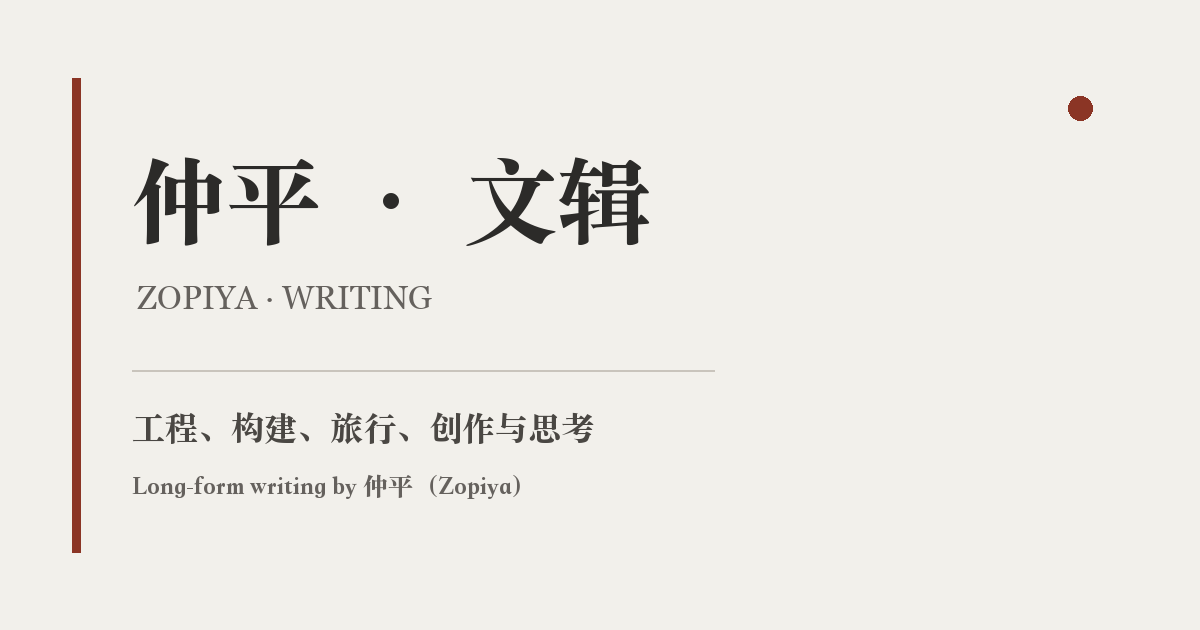
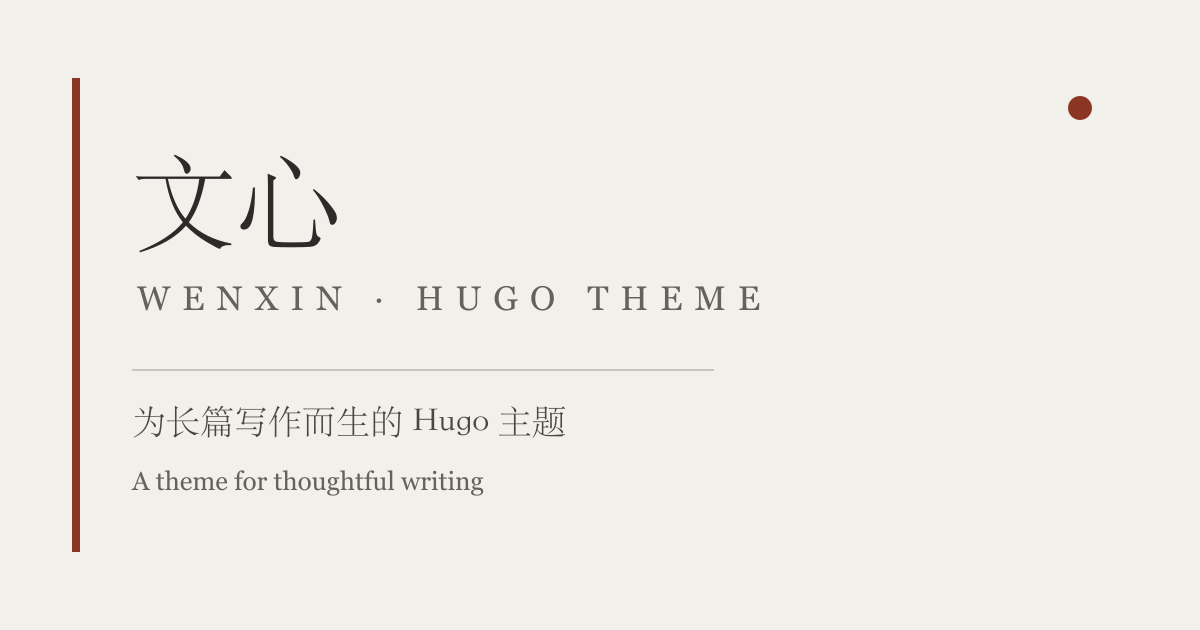
feat: make site identity configurable

diff --git a/layouts/partials/head.html b/layouts/partials/head.html
@@ -86,11 +86,19 @@
 {{ $faviconVersion := .Site.Params.faviconVersion | default "" }}
 {{ $faviconQuery := "" }}
 {{ with $faviconVersion }}{{ $faviconQuery = printf "?v=%s" . }}{{ end }}
-<link rel="icon" type="image/png" href="/favicon-96x96.png{{ $faviconQuery }}" sizes="96x96">
-<link rel="icon" type="image/svg+xml" href="/favicon.svg{{ $faviconQuery }}">
-<link rel="shortcut icon" href="/favicon.ico{{ $faviconQuery }}">
-<link rel="apple-touch-icon" sizes="180x180" href="/apple-touch-icon.png{{ $faviconQuery }}">
+{{ $favicon96 := .Site.Params.brand.favicon96 | default "/favicon-96x96.png" }}
+{{ $faviconSVG := .Site.Params.brand.faviconSVG | default "/favicon.svg" }}
+{{ $faviconICO := .Site.Params.brand.faviconICO | default "/favicon.ico" }}
+{{ $appleTouchIcon := .Site.Params.brand.appleTouchIcon | default "/apple-touch-icon.png" }}
+<link rel="icon" type="image/png" href="{{ $favicon96 }}{{ $faviconQuery }}" sizes="96x96">
+<link rel="icon" type="image/svg+xml" href="{{ $faviconSVG }}{{ $faviconQuery }}">
+<link rel="shortcut icon" href="{{ $faviconICO }}{{ $faviconQuery }}">
+<link rel="apple-touch-icon" sizes="180x180" href="{{ $appleTouchIcon }}{{ $faviconQuery }}">
+{{ with .Site.Home.OutputFormats.Get "webappmanifest" }}
+<link rel="manifest" href="{{ .RelPermalink }}{{ $faviconQuery }}">
+{{ else }}
 <link rel="manifest" href="/site.webmanifest{{ $faviconQuery }}">
+{{ end }}
 
 {{/* ── Icons ── */}}
 {{ with resources.Get "vendor/phosphor/phosphor.css" }}
@@ -98,16 +106,22 @@
 {{ end }}
 
 {{/* ── JSON-LD Structured Data ── */}}
+{{ $siteType := .Site.Params.schema.siteType | default "Blog" }}
+{{ $siteID := .Site.Params.schema.siteID | default (printf "%s#blog" .Site.BaseURL) }}
+{{ $authorName := .Site.Params.author | default .Site.Title }}
+{{ $authorType := .Site.Params.schema.authorType | default "Person" }}
+{{ $authorURL := .Site.Params.schema.authorURL | default .Site.BaseURL }}
+{{ $authorID := .Site.Params.schema.authorID | default (printf "%s#author" $authorURL) }}
 {{ if .IsHome }}
 <script type="application/ld+json">
 {
   "@context": "https://schema.org",
-  "@type": "Blog",
+  "@type": {{ $siteType | jsonify | safeJS }},
   "name": {{ .Site.Title | jsonify | safeJS }},
   "description": {{ .Site.Params.description | default "" | jsonify | safeJS }},
   "url": {{ .Site.BaseURL | jsonify | safeJS }},
-  "@id": "https://blog.zopiya.com/#blog",
-  "author": { "@id": "https://me.zopiya.com/#person", "@type": "Person", "name": "仲平", "url": "https://me.zopiya.com/zh/" }
+  "@id": {{ $siteID | jsonify | safeJS }},
+  "author": { "@id": {{ $authorID | jsonify | safeJS }}, "@type": {{ $authorType | jsonify | safeJS }}, "name": {{ $authorName | jsonify | safeJS }}, "url": {{ $authorURL | jsonify | safeJS }} }
 }
 </script>
 {{ else if .IsPage }}
@@ -120,9 +134,9 @@
   "description": {{ with .Description }}{{ . | jsonify | safeJS }}{{ else }}{{ with .Params.abstract }}{{ . | jsonify | safeJS }}{{ else }}""{{ end }}{{ end }},
   "url": {{ .Permalink | jsonify | safeJS }},
   "mainEntityOfPage": { "@type": "WebPage", "@id": {{ .Permalink | jsonify | safeJS }} },
-  "isPartOf": { "@id": "https://blog.zopiya.com/#blog" },
-  "author": { "@id": "https://me.zopiya.com/#person", "@type": "Person", "name": "仲平", "url": "https://me.zopiya.com/zh/" },
-  "publisher": { "@id": "https://me.zopiya.com/#person", "@type": "Person", "name": "仲平", "url": "https://me.zopiya.com/zh/" },
+  "isPartOf": { "@id": {{ $siteID | jsonify | safeJS }} },
+  "author": { "@id": {{ $authorID | jsonify | safeJS }}, "@type": {{ $authorType | jsonify | safeJS }}, "name": {{ $authorName | jsonify | safeJS }}, "url": {{ $authorURL | jsonify | safeJS }} },
+  "publisher": { "@id": {{ $authorID | jsonify | safeJS }}, "@type": {{ $authorType | jsonify | safeJS }}, "name": {{ $authorName | jsonify | safeJS }}, "url": {{ $authorURL | jsonify | safeJS }} },
   "datePublished": {{ .Date.Format "2006-01-02" | jsonify | safeJS }},
   "dateModified": {{ .Lastmod.Format "2006-01-02" | jsonify | safeJS }}{{ with $ogImage }},
   "image": {{ . | jsonify | safeJS }}{{ end }}{{ with .Params.tags }},

diff --git a/README.md b/README.md
@@ -64,6 +64,29 @@ hasCJKLanguage = true
   bio         = "你的个人简介"
   description = "站点描述（用于 SEO）"
   readTime    = true
+
+  [params.schema]
+    # JSON-LD 的作者 / 发布者信息；不填则回退到 author 与 baseURL。
+    siteType   = "Blog"
+    siteID     = "https://example.com/#blog"
+    authorType = "Person"
+    authorURL  = "https://example.com/about/"
+    authorID   = "https://example.com/about/#person"
+
+  [params.pwa]
+    shortName       = "你的博客名"
+    themeColor      = "#8B3525"
+    backgroundColor = "#F2F0EB"
+    display         = "standalone"
+    icon192         = "/web-app-manifest-192x192.png"
+    icon512         = "/web-app-manifest-512x512.png"
+
+  [params.brand]
+    # 不设置时使用主题提供的中性图标。
+    favicon96      = "/favicon-96x96.png"
+    faviconSVG     = "/favicon.svg"
+    faviconICO     = "/favicon.ico"
+    appleTouchIcon = "/apple-touch-icon.png"
 ```
 
 ### 社交链接
@@ -123,6 +146,19 @@ RSS 订阅按钮固定显示，无需手动配置。
 [params.analytics.google]
   measurementId = "G-XXXXXXXXXX"
 ```
+
+### JSON-LD 与 PWA
+
+主题不会写入站点所属者或域名。`params.schema` 用于控制 JSON-LD 的站点、作者与发布者身份；未配置时，会使用 `params.author` 与 `baseURL` 作为通用回退。
+
+若要生成以站点标题命名的动态 PWA manifest，请在 `hugo.toml` 中启用 Hugo 内建输出格式：
+
+```toml
+[outputs]
+  home = ["HTML", "RSS", "WebAppManifest"]
+```
+
+`params.pwa` 可选配置短名称、颜色、显示模式和图标；`params.brand` 可配置页面 favicon 与 Apple 图标。未启用动态 manifest 时，主题仍提供中性名称为 Wenxin 的静态 manifest 作为回退。
 
 ### 代码高亮
 

diff --git a/CHANGELOG.md b/CHANGELOG.md
@@ -2,6 +2,13 @@
 
 All notable changes to the Wenxin Hugo Theme will be documented in this file.
 
+## [Unreleased]
+
+### Changed
+- JSON-LD 站点、作者与发布者身份改由站点配置提供，不再包含任何站点专属域名或作者信息。
+- 新增可配置的 Web App Manifest 输出，PWA 名称与颜色从站点配置读取。
+- 默认分享图改为中性的 Wenxin 主题图。
+
 ## [1.0.0] - 2026-04-22
 
 ### Added
